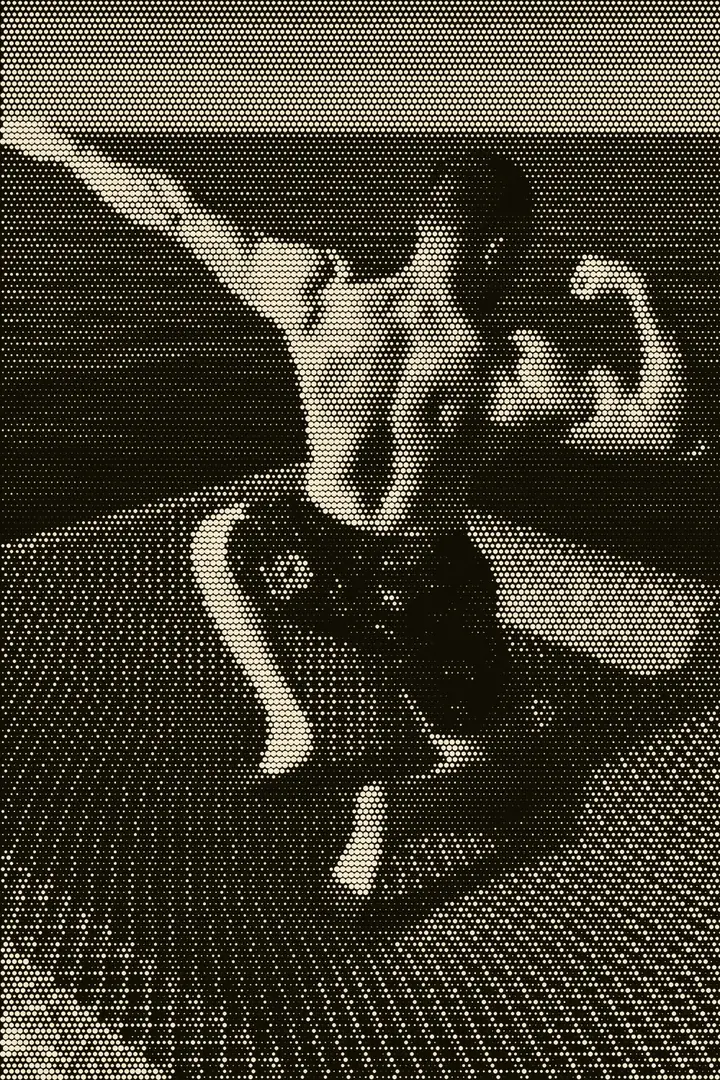
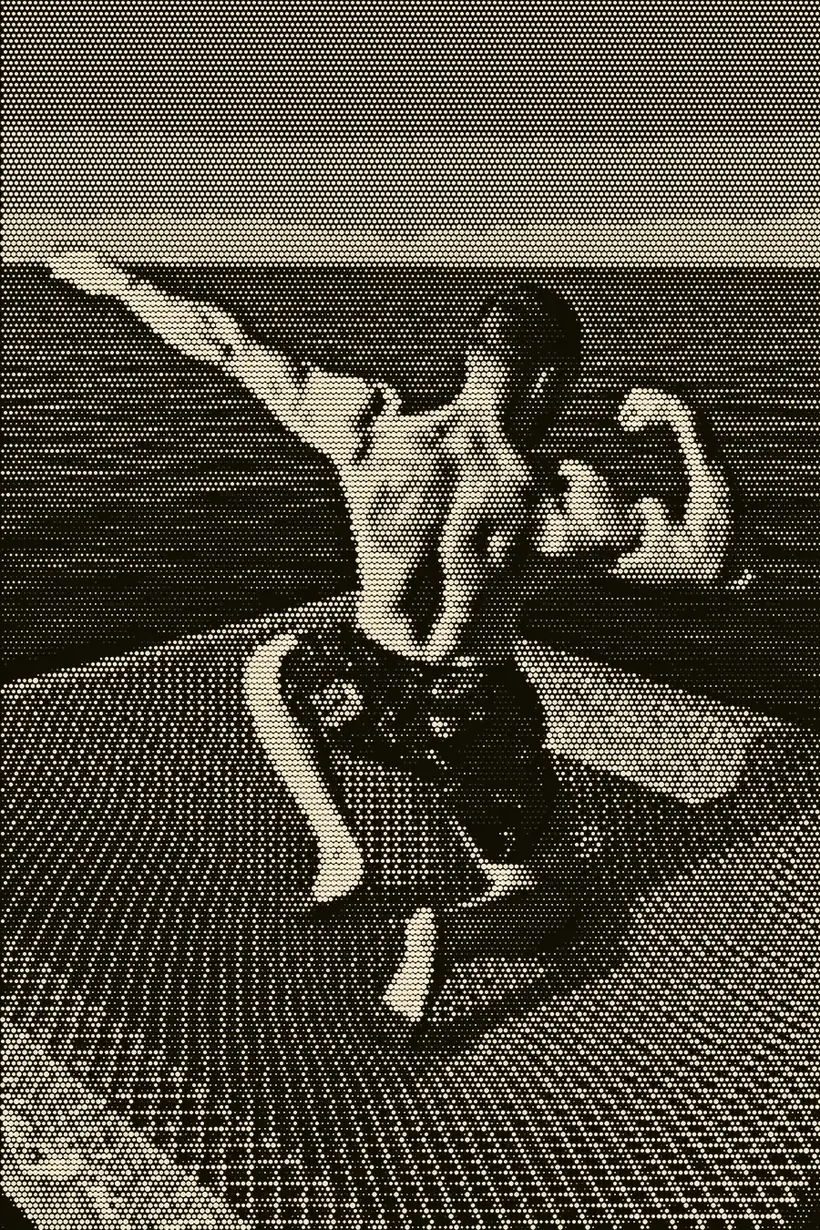
fix: the back reads, and the frame steps back
Three things were flattening it at once, and each needed its own answer.

The screen was coarser than the thing it had to record. At eight pixels a cell
the dots were larger than the shadow between two muscles, so the shadow had
nowhere to be written down; six records it.

The curve was closing the greys the relief lives in. A gamma of 1.2 buys deep
blacks by crushing exactly the narrow band where one muscle separates from the
next — 1.05 keeps it, and local contrast does the work instead: unsharp at a
wide radius lifts the difference between neighbouring muscles and leaves the
overall tone alone, where a global curve would blow out the lit shoulder before
it found the back.

And it was held at a third of its strength, below which a back is a texture.

The frame steps back a fifth on every side, so the horizon and the net are in
the picture rather than pressed against its edges.

Claude-Session: https://claude.ai/code/session_01CBouq9mDnasEgZ8KDcwG5A

diff --git a/src/components/LandingPage/LandingPage.module.css b/src/components/LandingPage/LandingPage.module.css
@@ -483,7 +483,9 @@
   position: absolute;
   inset: 0;
   background: url('/lessons-bg.webp') 50% 42% / cover no-repeat;
-  opacity: 0.32;
+  /* 0.38: the relief across his back is written in a narrow band of grey, and
+     below this it reads as texture rather than as a back. */
+  opacity: 0.38;
   /* Faded out towards the middle and the foot, where the words sit. A flat
      opacity puts the same amount of picture behind the heading as behind the
      empty corners, and the heading is the half that cannot afford it. */
